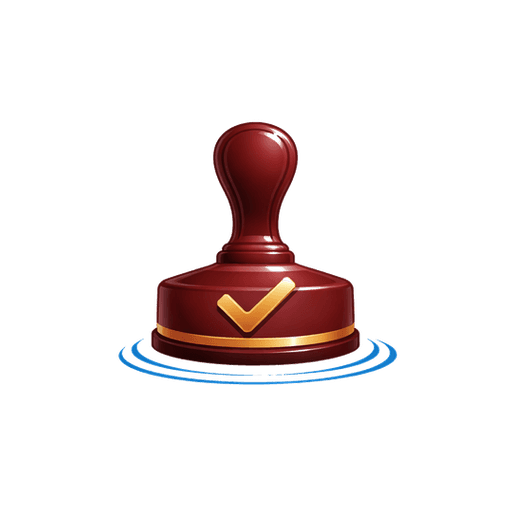
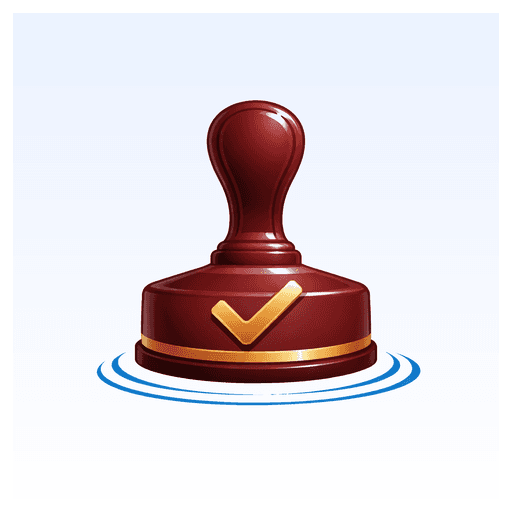
Nuevo icono con fondo degradado; assets PWA con fondo maskable a juego
Reemplazado public/icon-512.png por el nuevo sello sobre degradado azul claro y
regenerados los assets PWA. Como el logo ya trae su propio fondo (no es
transparente), el relleno del maskable y el apple-touch pasa de navy a #EBF2FF,
el tono con el que arranca el degradado del icono, para que el area de seguridad
continue el fondo en vez de recortarlo con un marco de otro color. El
background_color del manifest se ajusta a #EBF2FF por coherencia (theme_color
sigue en navy). El icono purpose=any mantiene transparencia.

Changed region(s): [[0.1875, 0.1875, 0.8438, 0.8125]]

diff --git a/pwa-assets.config.ts b/pwa-assets.config.ts
@@ -3,10 +3,12 @@ import {
   minimal2023Preset,
 } from "@vite-pwa/assets-generator/config";
 
-// Fondo navy sólido de la marca (#0D1B4B) para el icono maskable y el
-// apple-touch, en vez del blanco por defecto del preset. Coherente con el
-// theme_color y el background_color del manifest.
-const NAVY = "#0D1B4B";
+// Fondo sólido para el maskable y el apple-touch, en vez del blanco por defecto
+// del preset. Usamos el mismo azul claro con el que arranca el degradado del
+// logo (icon-512.png), para que el relleno del área de seguridad continúe el
+// fondo del propio icono en vez de recortarlo con un marco de otro color.
+// Coherente con el background_color del manifest.
+const ICON_BG = "#EBF2FF";
 
 // Genera los iconos PWA a partir del logo cuadrado (public/icon-512.png).
 // Salida en public/: pwa-64x64.png, pwa-192x192.png, pwa-512x512.png,
@@ -18,14 +20,14 @@ export default defineConfig({
       ...minimal2023Preset.maskable,
       resizeOptions: {
         ...minimal2023Preset.maskable.resizeOptions,
-        background: NAVY,
+        background: ICON_BG,
       },
     },
     apple: {
       ...minimal2023Preset.apple,
       resizeOptions: {
         ...minimal2023Preset.apple.resizeOptions,
-        background: NAVY,
+        background: ICON_BG,
       },
     },
   },

diff --git a/vite.config.ts b/vite.config.ts
@@ -23,7 +23,7 @@ export default defineConfig({
         scope: "/",
         display: "standalone",
         orientation: "portrait",
-        background_color: "#0D1B4B",
+        background_color: "#EBF2FF",
         theme_color: "#0D1B4B",
         lang: "es",
         dir: "ltr",
